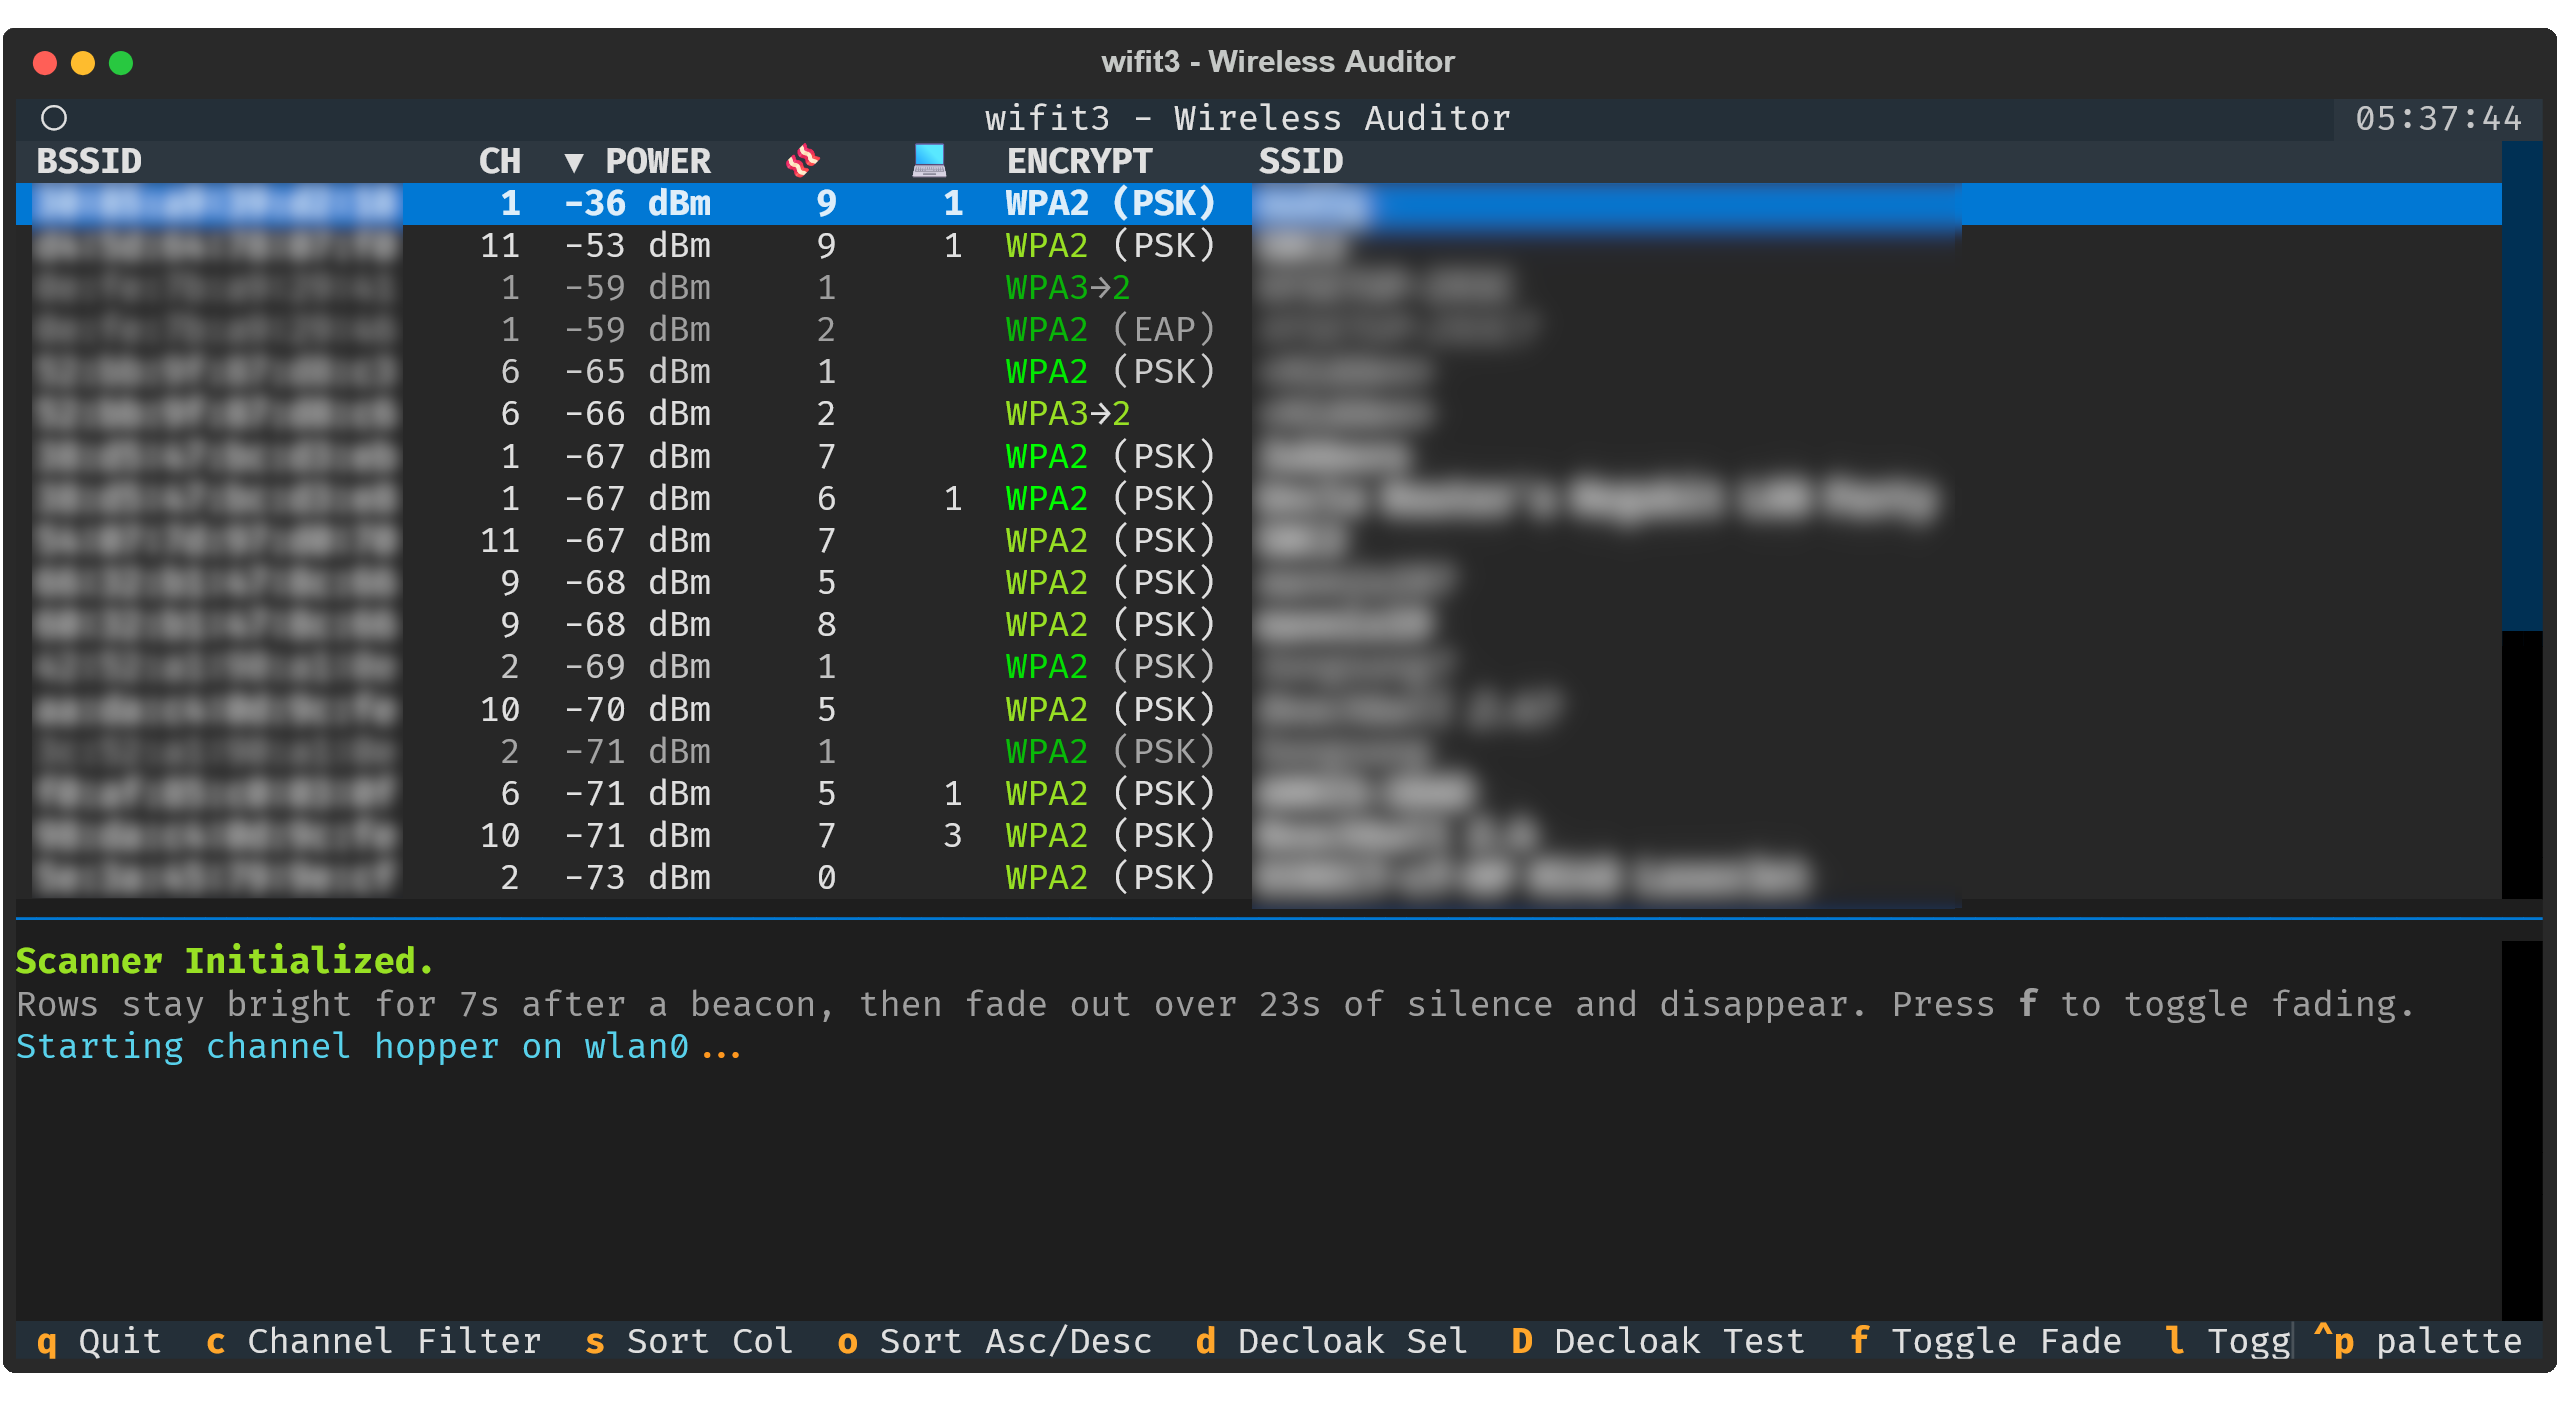
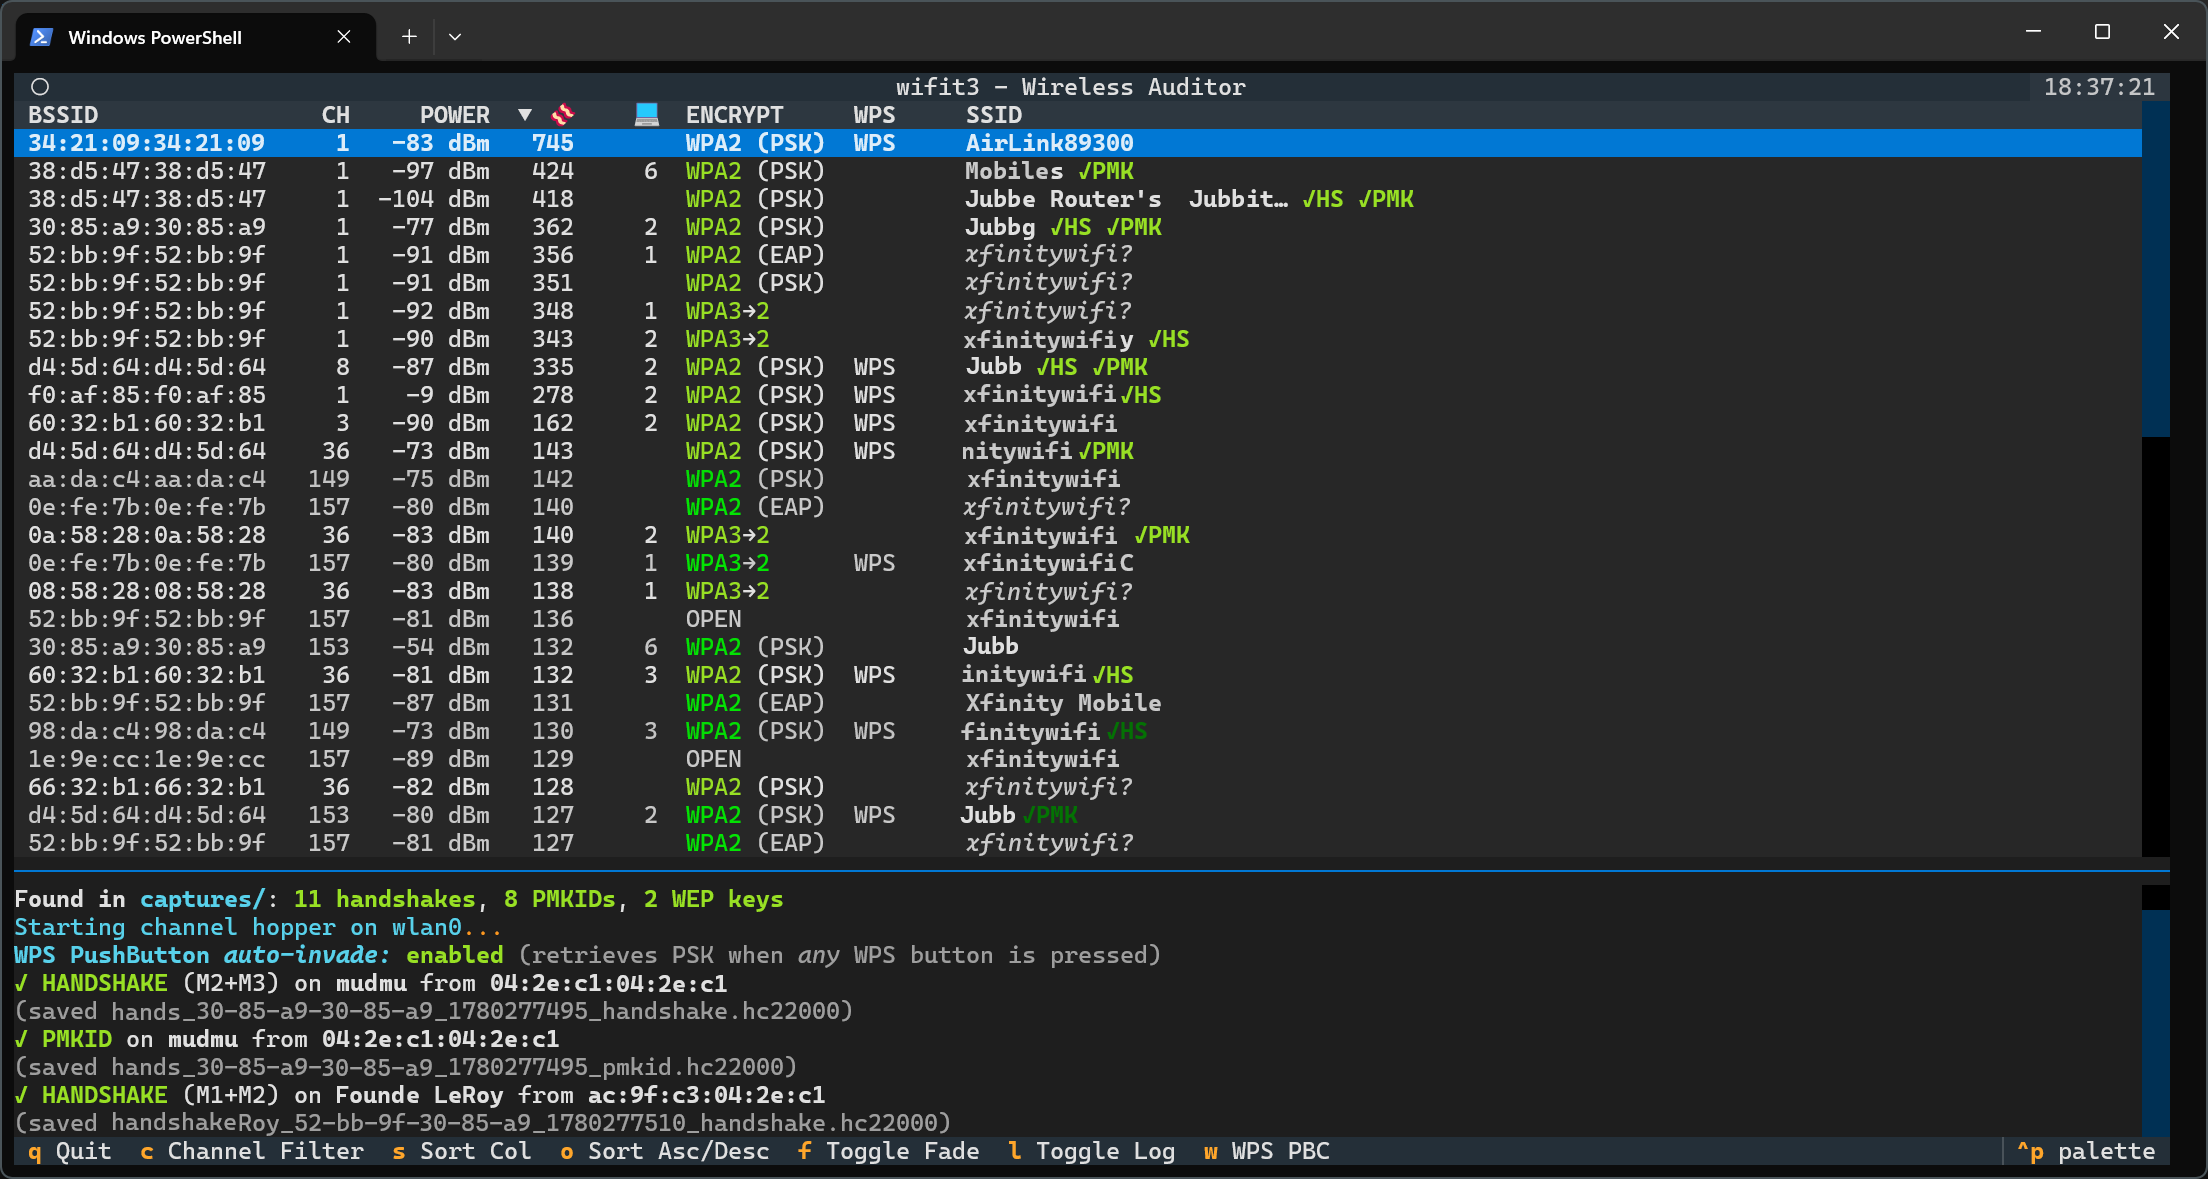
docs(readme): update screenshots for new UI

diff --git a/README.md b/README.md
@@ -25,7 +25,7 @@ subprocesses, no Scapy — so it runs the same on **Linux and Windows**.
 
 | Scanner | Focus (single target) |
 |---|---|
-| ![Scanner](screenshots/wifit3-2-scanner.png) | ![Focus](screenshots/wifit3-3-focus.png) |
+| ![Scanner](screenshots/wifit3-2-scanner.png) | ![Focus](screenshots/wifit3-3-focus-handshake.png) |
 
 ## Supported hardware
 
